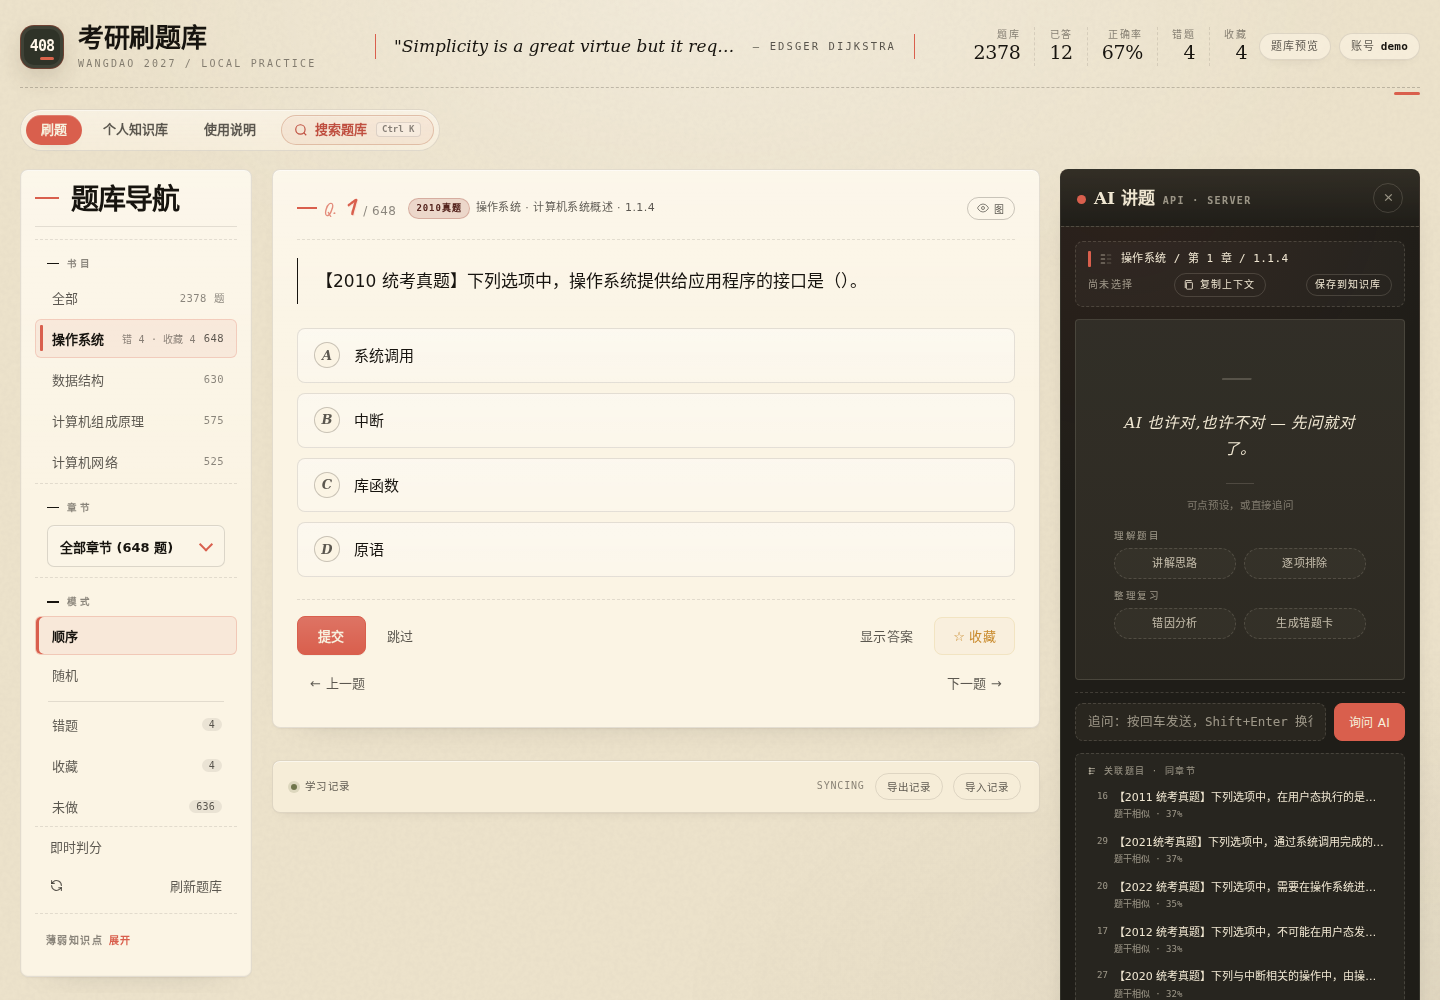
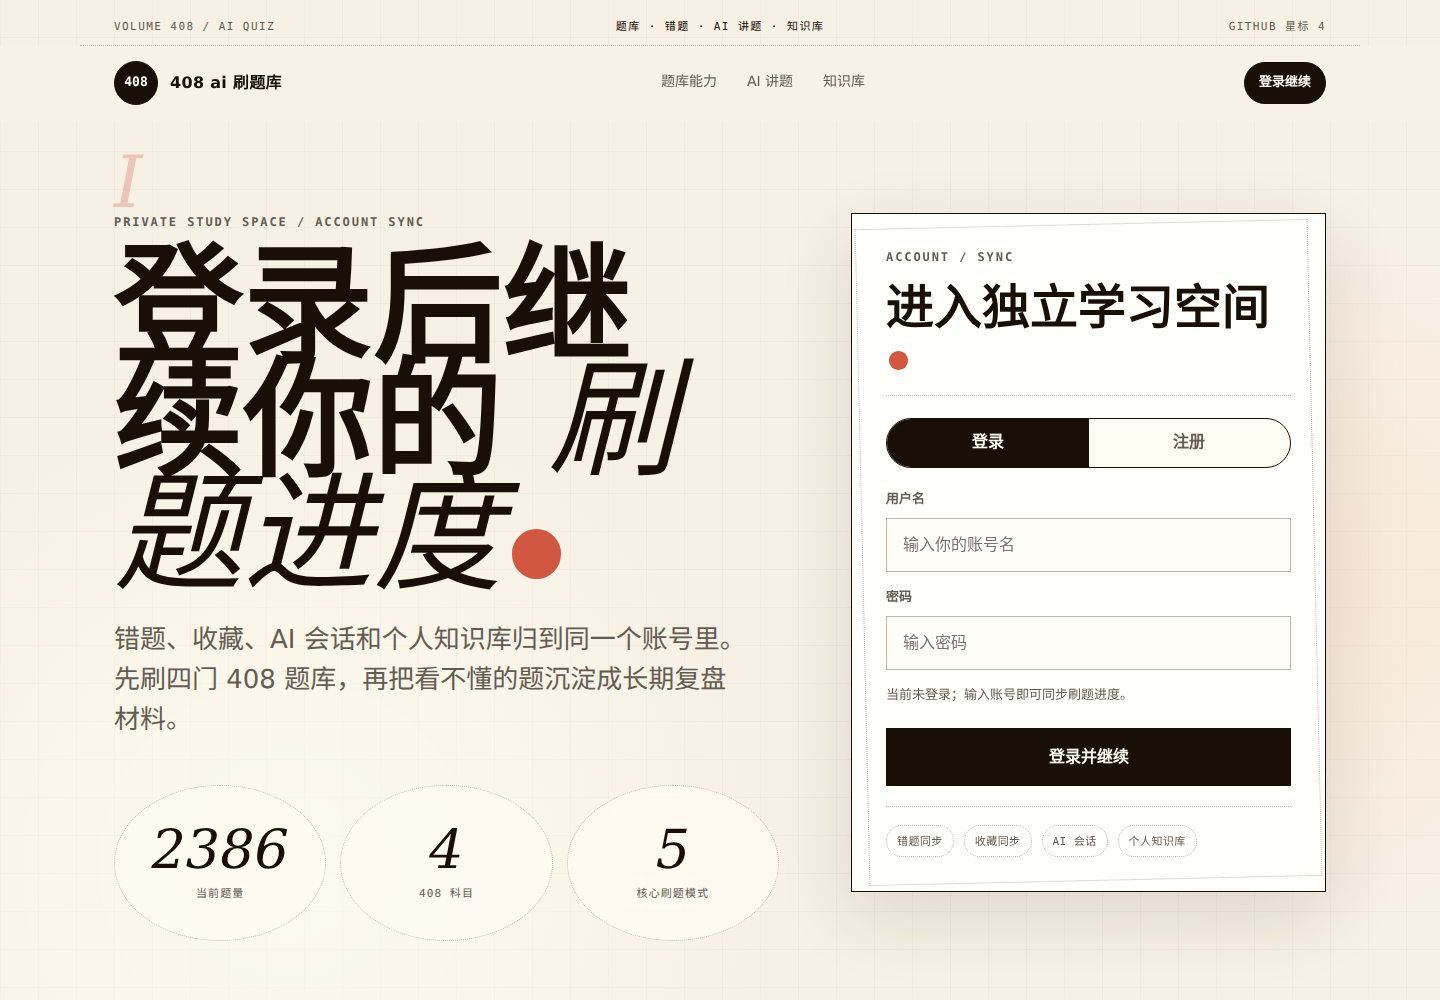
Update login homepage screenshot

diff --git a/assets/js/auth.js b/assets/js/auth.js
@@ -15,6 +15,7 @@ function renderAuthUser() {
   const correctCount = Math.max(0, answeredCount - wrongCount);
   const syncText = ($("#sync-status") && $("#sync-status").textContent) || "LOCAL";
   box.innerHTML =
+    '<button class="header-action-btn" type="button" id="home-landing-open">首页</button>' +
     '<button class="header-action-btn" type="button" id="preview-open">题库预览</button>' +
     '<button class="header-action-btn" type="button" id="user-menu-toggle" aria-haspopup="menu" aria-expanded="false">账号 <strong>' + escHtml(AUTH_USER.username) + '</strong></button>' +
     '<div class="user-menu" id="user-menu" hidden>' +
@@ -32,6 +33,7 @@ function renderAuthUser() {
       '</div>' +
       '<div class="user-menu-meta" style="margin:10px 0 0;">题库 ' + totalQs + ' 题 · 错题 ' + wrongCount + ' · 同步 <span id="user-sync-status">' + escHtml(syncText) + '</span></div>' +
     '</div>';
+  $("#home-landing-open").onclick = openHomeLanding;
   $("#preview-open").onclick = openQuestionPreview;
   const toggle = $("#user-menu-toggle");
   const menu = $("#user-menu");
@@ -48,6 +50,18 @@ function renderAuthUser() {
     const input = $("#import-file");
     if (input) input.click();
   };
+}
+
+function openHomeLanding() {
+  closeUserMenu();
+  const card = $("#auth-card");
+  if (!card) return;
+  const frame = card.querySelector(".auth-frame");
+  if (frame) {
+    const base = (frame.getAttribute("src") || "assets/auth/login-intro.html").split("?")[0];
+    frame.setAttribute("src", base + "?v=20260710-0225&from=home&t=" + Date.now());
+  }
+  card.style.display = "grid";
 }
 
 function closeUserMenu() {

diff --git a/index.html b/index.html
@@ -397,7 +397,7 @@
 <script src="assets/js/utils.js"></script>
 <script src="assets/js/router.js"></script>
 <script src="assets/js/quiz.js?v=20260709-1550"></script>
-<script src="assets/js/auth.js?v=20260709-1728"></script>
+<script src="assets/js/auth.js?v=20260710-0305"></script>
 <script src="assets/js/wiki.js?v=20260709-1402"></script>
 <script src="assets/js/ai.js?v=20260709-0710"></script>
 <script src="assets/js/search.js?v=20260709-1550"></script>

diff --git a/README.md b/README.md
@@ -8,6 +8,7 @@
 
 | 页面 | 地址 |
 |---|---|
+| 首页 | `https://quiz.hermesjj.com/` |
 | 刷题 | `https://quiz.hermesjj.com/#/quiz` |
 | 个人知识库 | `https://quiz.hermesjj.com/#/wiki` |
 | 使用说明 | `https://quiz.hermesjj.com/#/guide` |
@@ -29,7 +30,7 @@
 - Markdown/公式/代码渲染：题面、解析和 AI 输出支持 Markdown、KaTeX 和代码块。
 - 导入导出：学习记录可用 JSON 迁移。
 
-![主刷题界面：题库导航、题卡、学习进度和右侧 AI 讲题面板](docs/screenshots/main.png)
+![登录首页：408 AI 刷题库的账号入口、题库能力介绍和视觉拼贴](docs/screenshots/main.png)
 
 ---
 
